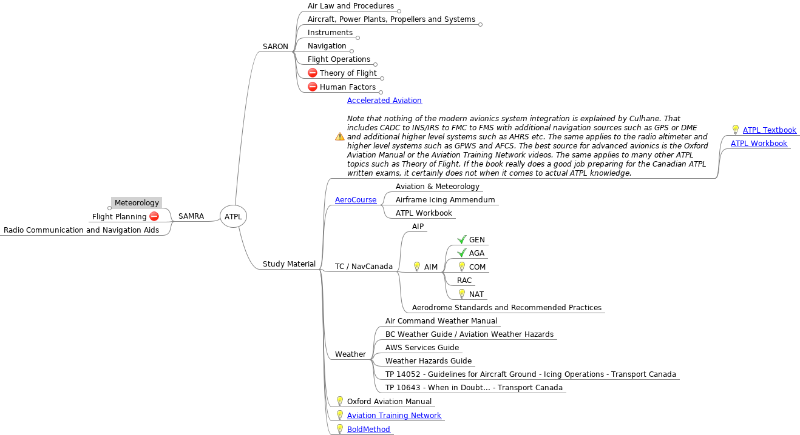
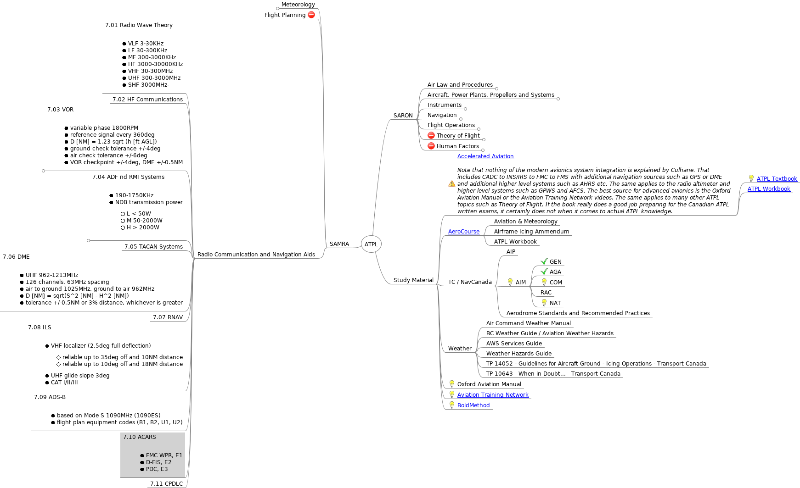
extended ATPL mind map

diff --git a/ATPL/Exam/ATPL.mm b/ATPL/Exam/ATPL.mm
@@ -12355,7 +12355,288 @@
 <node CREATED="1568172603794" ID="ID_1873206513" MODIFIED="1568249087804" TEXT="Flight Planning">
 <icon BUILTIN="closed"/>
 </node>
-<node CREATED="1568172671136" ID="ID_1053951536" MODIFIED="1568172701231" TEXT="Radio Communication and Navigation Aids"/>
+<node CREATED="1568172671136" ID="ID_1053951536" MODIFIED="1573765834508" TEXT="Radio Communication and Navigation Aids">
+<node CREATED="1573764157635" ID="ID_1495037692" MODIFIED="1573764306772">
+<richcontent TYPE="NODE"><html>
+  <head>
+    
+  </head>
+  <body>
+    <p>
+      7.01 Radio Wave Theory
+    </p>
+    <p>
+      
+    </p>
+    <ul>
+      <li>
+        VLF 3-30KHz
+      </li>
+      <li>
+        LF 30-300KHz
+      </li>
+      <li>
+        MF 300-3000KHz
+      </li>
+      <li>
+        HF 3000-30000KHz
+      </li>
+      <li>
+        VHF 30-300MHz
+      </li>
+      <li>
+        UHF 300-3000MHz
+      </li>
+      <li>
+        SHF 3000MHz-
+      </li>
+    </ul>
+  </body>
+</html>
+</richcontent>
+</node>
+<node CREATED="1573764536763" ID="ID_395794237" MODIFIED="1573764544715" TEXT="7.02 HF Communications"/>
+<node CREATED="1573764628595" FOLDED="true" ID="ID_1452684835" MODIFIED="1573766466168">
+<richcontent TYPE="NODE"><html>
+  <head>
+    
+  </head>
+  <body>
+    <p>
+      7.03 VOR
+    </p>
+    <p>
+      
+    </p>
+    <ul>
+      <li>
+        variable phase 1800RPM
+      </li>
+      <li>
+        reference signal every 360deg
+      </li>
+      <li>
+        D [NM] = 1.23 sqrt (h [ft AGL])
+      </li>
+      <li>
+        ground check tolerance +/-4deg
+      </li>
+      <li>
+        air check tolerance +/-6deg
+      </li>
+      <li>
+        VOR checkpoint +/-4deg, DME +/-0.5NM
+      </li>
+    </ul>
+  </body>
+</html>
+</richcontent>
+<node CREATED="1573765666888" ID="ID_1078463134" MODIFIED="1573765811094">
+<richcontent TYPE="NODE"><html>
+  <head>
+    
+  </head>
+  <body>
+    <p>
+      Time and Distance
+    </p>
+    <p>
+      
+    </p>
+    <ul>
+      <li>
+        TTS [min] = T [s] / #Radials
+      </li>
+      <li>
+        DTS [NM] = GS * TTS [min] / 60
+      </li>
+    </ul>
+  </body>
+</html>
+</richcontent>
+</node>
+</node>
+<node CREATED="1573765838461" FOLDED="true" ID="ID_674804851" MODIFIED="1573766468153">
+<richcontent TYPE="NODE"><html>
+  <head>
+    
+  </head>
+  <body>
+    <p>
+      7.04 ADF nd RMI Systems
+    </p>
+    <p>
+      
+    </p>
+    <ul>
+      <li>
+        190-1750KHz
+      </li>
+      <li>
+        NDB transmission power
+
+        <ul>
+          <li>
+            L &lt; 50W
+          </li>
+          <li>
+            M 50-2000W
+          </li>
+          <li>
+            H &gt; 2000W
+          </li>
+        </ul>
+      </li>
+    </ul>
+  </body>
+</html>
+</richcontent>
+<node CREATED="1573766225298" ID="ID_500852561" MODIFIED="1573766276157">
+<richcontent TYPE="NODE"><html>
+  <head>
+    
+  </head>
+  <body>
+    <p>
+      Time and Distance
+    </p>
+    <p>
+      
+    </p>
+    <ul>
+      <li>
+        TTS [min] = T [s] / RB Change
+      </li>
+    </ul>
+  </body>
+</html>
+</richcontent>
+</node>
+</node>
+<node CREATED="1573766472295" ID="ID_1799060410" MODIFIED="1573766482465" TEXT="7.05 TACAN Systems"/>
+<node CREATED="1573766502784" ID="ID_1342315489" MODIFIED="1573766782520">
+<richcontent TYPE="NODE"><html>
+  <head>
+    
+  </head>
+  <body>
+    <p>
+      7.06 DME
+    </p>
+    <p>
+      
+    </p>
+    <ul>
+      <li>
+        UHF 962-1213MHz
+      </li>
+      <li>
+        126 channels, 63MHz spacing
+      </li>
+      <li>
+        air to ground 1025MHz, ground to air 962MHz
+      </li>
+      <li>
+        D [NM] = sqrt(S^2 [NM] - H^2 [NM])
+      </li>
+      <li>
+        tolerance +/-0.5NM or 3% distance, whichever is greater
+      </li>
+    </ul>
+  </body>
+</html>
+</richcontent>
+</node>
+<node CREATED="1573766804059" ID="ID_740616356" MODIFIED="1573766811122" TEXT="7.07 RNAV"/>
+<node CREATED="1573766821646" ID="ID_1748378733" MODIFIED="1573767345705">
+<richcontent TYPE="NODE"><html>
+  <head>
+    
+  </head>
+  <body>
+    <p>
+      7.08 ILS
+    </p>
+    <p>
+      
+    </p>
+    <ul>
+      <li>
+        VHF localizer (2.5deg full deflection)
+
+        <ul>
+          <li>
+            reliable up to 35deg off and 10NM distance
+          </li>
+          <li>
+            reliable up to 10deg off and 18NM distance
+          </li>
+        </ul>
+      </li>
+      <li>
+        UHF glide slope 3deg
+      </li>
+      <li>
+        CAT I/II/III
+      </li>
+    </ul>
+  </body>
+</html>
+</richcontent>
+</node>
+<node CREATED="1573767489852" ID="ID_975583169" MODIFIED="1573767942567">
+<richcontent TYPE="NODE"><html>
+  <head>
+    
+  </head>
+  <body>
+    <p>
+      7.09 ADS-B
+    </p>
+    <p>
+      
+    </p>
+    <ul>
+      <li>
+        based on Mode S 1090MHz (1090ES)
+      </li>
+      <li>
+        flight plan equipment codes (B1, B2, U1, U2)
+      </li>
+    </ul>
+  </body>
+</html>
+</richcontent>
+</node>
+<node CREATED="1573768025279" ID="ID_1770451184" MODIFIED="1573768178665">
+<richcontent TYPE="NODE"><html>
+  <head>
+    
+  </head>
+  <body>
+    <p>
+      7.10 ACARS
+    </p>
+    <p>
+      
+    </p>
+    <ul>
+      <li>
+        FMC WPR, E1
+      </li>
+      <li>
+        D-FIS, E2
+      </li>
+      <li>
+        PDC, E3
+      </li>
+    </ul>
+  </body>
+</html>
+</richcontent>
+</node>
+<node CREATED="1573768043690" ID="ID_308343974" MODIFIED="1573768050669" TEXT="7.11 CPDLC"/>
+</node>
 </node>
 <node CREATED="1568671682779" ID="ID_1658639647" MODIFIED="1571511537883" POSITION="right" TEXT="Study Material">
 <node CREATED="1568671700482" ID="ID_217896736" MODIFIED="1572197462102">
